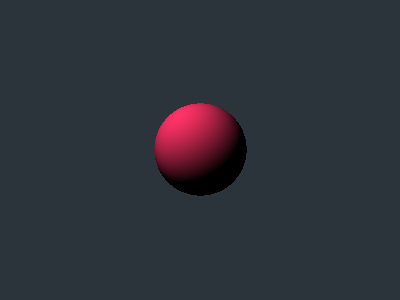
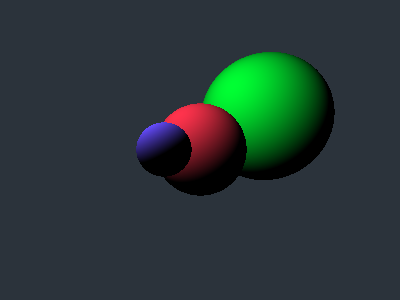
rendering multiple spheres

Changed region(s): [[0.51, 0.15, 0.84, 0.6], [0.33, 0.36, 0.48, 0.6]]

diff --git a/main.py b/main.py
@@ -9,8 +9,11 @@ image = Image.new(mode="RGB", size=(400, 300))
 width, height = image.size
 aspect_ratio = width/height
 
-# define a sphere at (0,0,4) with radius 1 and color (1.0,0.2,0.4)
-sphere = Sphere.Sphere(np.array([0.0,0.0,4.0]), 1.0, np.array([1.0,0.2,0.4]))
+# define some spheres
+sphere0 = Sphere.Sphere(np.array([0.0,0.0,4.0]), 1.0, np.array([1.0,0.2,0.3]))
+sphere1 = Sphere.Sphere(np.array([2.0,1.0,6.0]), 2.0, np.array([0.0,1.0,0.2]))
+sphere2 = Sphere.Sphere(np.array([-0.4,0.0,2.0]), 0.3, np.array([0.4,0.3,1.0]))
+spheres = [sphere0, sphere1, sphere2]
 
 # define camera with vfov 60 degrees
 # always pointing in +z direction
@@ -22,7 +25,10 @@ light_pos = np.array([-2.0,3.0,1.0])
 # c - center of the sphere
 # r - radius of the sphere
 # rd - ray direction
-def ray_sphere_intersection(sc: np.array, sr: float, rd: np.array) -> HitInfo.HitInfo:
+def ray_sphere_intersection(sphere: Sphere.Sphere, rd: np.array) -> HitInfo.HitInfo:
+
+    sc = sphere.center
+    sr = sphere.radius
 
     # coefficients for quadratic equation
     a = np.dot(rd, rd)
@@ -31,12 +37,12 @@ def ray_sphere_intersection(sc: np.array, sr: float, rd: np.array) -> HitInfo.Hi
 
     # discard if sphere is behind us or we are inside the sphere
     if b > 0 or c < 0:
-        return HitInfo.HitInfo(False, None, None)
+        return HitInfo.HitInfo(False, None, None, None)
     
     # check for hit
     d = b*b - 4*a*c # discriminant
     if d < 0:
-        return HitInfo.HitInfo(False, None, None)# no hit
+        return HitInfo.HitInfo(False, None, None, None)# no hit
     else:
         k = (-b - np.sqrt(d)) / (2*a) # this scalar multiplied by rd gives coords of intersection
 
@@ -44,7 +50,7 @@ def ray_sphere_intersection(sc: np.array, sr: float, rd: np.array) -> HitInfo.Hi
 
         normal = (k*rd - sc) / np.linalg.norm(k*rd - sc)
 
-        return HitInfo.HitInfo(True, intersection, normal)
+        return HitInfo.HitInfo(True, intersection, normal, sphere.color)
 
 # fragment shader
 def frag(frag_coord: tuple[int, int]) -> tuple[int, int, int]:
@@ -61,21 +67,37 @@ def frag(frag_coord: tuple[int, int]) -> tuple[int, int, int]:
     # for sphere intersection calculation to work
     ray_dir = ray_dir / np.linalg.norm(ray_dir)
 
-    # if ray intersects sphere make pixel white else black
-    color = np.array([0.0, 0.0, 0.0])
-    ray_hit_info = ray_sphere_intersection(sphere.center, sphere.radius, ray_dir)
-    if ray_hit_info.hit:
+    # check for ray intersection with any of the spheres
+    hits = []
 
-        light_dir = light_pos - ray_hit_info.coords
-        light_dir = light_dir / np.linalg.norm(light_dir)
+    color = np.array([0.17, 0.2, 0.23]) # background color
 
-        normal = ray_hit_info.normal
+    for sphere in spheres:
+        ray_hit_info = ray_sphere_intersection(sphere, ray_dir)
+        if ray_hit_info.hit:
+            hits.append(ray_hit_info)
 
-        # simple diffuse lighting
-        color = sphere.color * np.dot(light_dir, normal)
+    if not hits: # no hits return bg color
+        # convert np array to tuple of ints (0.0-1.0 -> 0-255)
+        int_color = np.rint(color * 255).astype(int)
 
-    else:
-        color = np.array([0.17, 0.2, 0.23])
+        return tuple(int_color)
+
+    # find out which hit is closest to camera
+    closest_hit = None
+    for hit in hits:
+        if closest_hit == None:
+            closest_hit = hit
+        elif np.linalg.norm(hit.coords) <= np.linalg.norm(closest_hit.coords):
+            closest_hit = hit
+
+    light_dir = light_pos - closest_hit.coords
+    light_dir = light_dir / np.linalg.norm(light_dir)
+
+    normal = closest_hit.normal
+
+    # simple diffuse lighting
+    color = closest_hit.albedo * np.dot(light_dir, normal)
 
     # convert np array to tuple of ints (0.0-1.0 -> 0-255)
     int_color = np.rint(color * 255).astype(int)

diff --git a/HitInfo.py b/HitInfo.py
@@ -1,5 +1,6 @@
 class HitInfo:
-    def __init__(self, hit, coords, normal):
+    def __init__(self, hit, coords, normal, albedo):
         self.hit = hit
         self.coords = coords
         self.normal = normal
+        self.albedo = albedo
